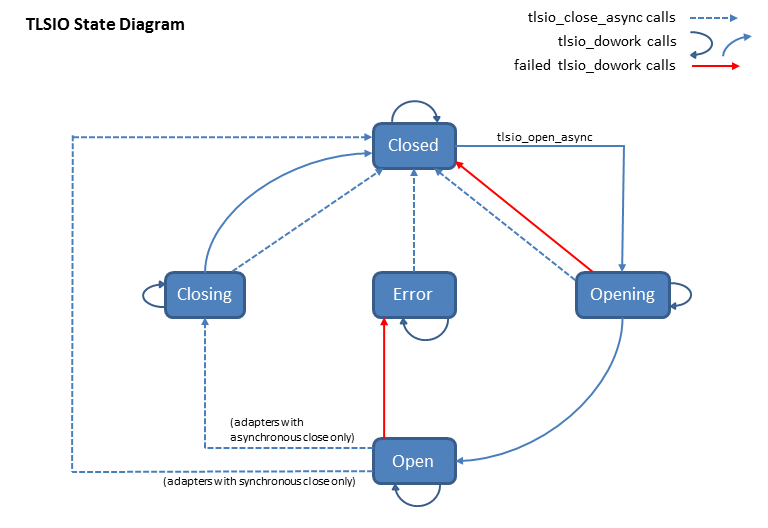
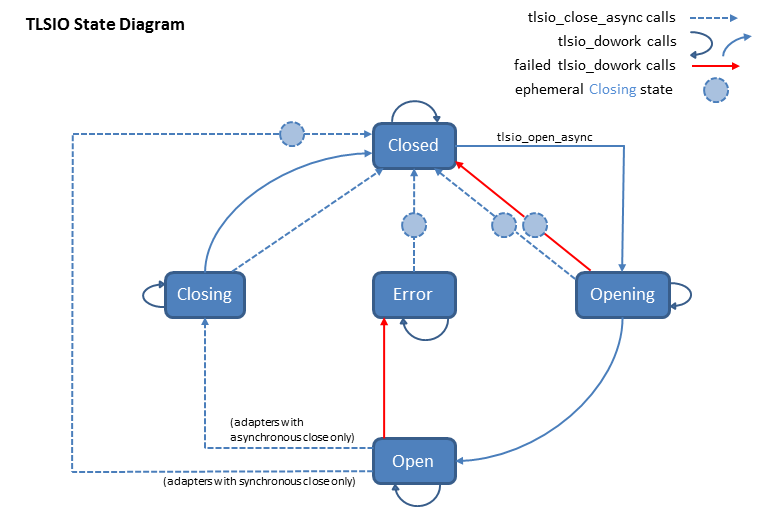
All the doc stuff ACR about state machine

diff --git a/devdoc/tlsio.md b/devdoc/tlsio.md
@@ -82,14 +82,17 @@ int port;
 ## External State
 The external state of the tlsio adapter is determined by which of the adapter's interface functions have been called and which callbacks have been performed. The adapter's internal state should map cleanly to its external state, but the mapping is not necessarily 1:1. The external states are defined as follows:
 
-* TLSIO_STATE_EXT_CLOSED means either that the module is newly constructed by `tlsio_create`, that the `tlsio_close_async` complete callback has been received, or that the `on_tlsio_open_complete` callback has returned with `IO_OPEN_ERROR` or `IO_OPEN_CANCELLED`.
+* TLSIO_STATE_EXT_CLOSED means either that the module is newly constructed by `tlsio_create`, that the `tlsio_close_async` complete callback has been received, or that the `on_tlsio_open_complete` callback has returned with `IO_OPEN_ERROR`.
 * TLSIO_STATE_EXT_OPENING means that the `tlsio_open_async` call has completed successfully but the `on_tlsio_open_complete` callback has not been performed.
 * TLSIO_STATE_EXT_OPEN means that the `on_tlsio_open_complete` callback has returned with `IO_OPEN_OK`.
-* TLSIO_STATE_EXT_CLOSING means that the `tlsio_close_async` call has completed successfully but the `on_tlsio_close_complete` callback has not been performed.
-* TLSIO_STATE_EXT_ERROR means that `on_io_error` has been called from `tlsio_dowork`
+* TLSIO_STATE_EXT_CLOSING means that either the `tlsio_close_async` call has completed successfully but the `on_tlsio_close_complete` callback has not yet been performed, or that  the `on_tlsio_open_complete` callback has returned with `IO_OPEN_CANCELLED`.
+* TLSIO_STATE_EXT_ERROR means that `on_io_error` has been called from `tlsio_dowork`.
 
 ## State Transitions
 This list shows the effect of the calls as a function of state with happy internal functionality. Unhappy functionality is not shown. The `tlsio_setoption` and `tlsio_getoptions` calls are not shown because they have no effect on state and are always allowed. Calls to `tlsio_send_async` also do not affect state, and are allowed only during TLSIO_STATE_EXT_OPEN.
+
+All transitions into TLSIO_STATE_EXT_CLOSED are understood to pass through TLSIO_STATE_EXT_CLOSING.
+
 
 <table>
   <tr>From state <b>TLSIO_STATE_EXT_CLOSED</b></tr>
@@ -119,7 +122,7 @@ This list shows the effect of the calls as a function of state with happy intern
   </tr>
   <tr>
     <td>tlsio_open_async</td>
-    <td>fail, log error, remain in TLSIO_STATE_EXT_OPENING (see "Usage error policy" below)</td>
+    <td>fail, log error, remain in TLSIO_STATE_EXT_OPENING (usage error)</td>
   </tr>
   <tr>
     <td>tlsio_close_async</td>
@@ -139,7 +142,7 @@ This list shows the effect of the calls as a function of state with happy intern
   </tr>
   <tr>
     <td>tlsio_open_async</td>
-    <td>fail, log error, remain in TLSIO_STATE_EXT_OPEN (see "Usage error policy" below)</td>
+    <td>fail, log error, remain in TLSIO_STATE_EXT_OPEN (usage error)</td>
   </tr>
   <tr>
     <td>tlsio_close_async</td>
@@ -159,7 +162,7 @@ This list shows the effect of the calls as a function of state with happy intern
   </tr>
   <tr>
     <td>tlsio_open_async</td>
-    <td>fail, log error, remain in TLSIO_STATE_EXT_CLOSING (see "Usage error policy" below)</td>
+    <td>fail, log error, remain in TLSIO_STATE_EXT_CLOSING (usage error)</td>
   </tr>
   <tr>
     <td>tlsio_close_async</td>
@@ -179,7 +182,7 @@ This list shows the effect of the calls as a function of state with happy intern
   </tr>
   <tr>
     <td>tlsio_open_async</td>
-    <td>fail, log error, remain in TLSIO_STATE_EXT_ERROR (see "Usage error policy" below)</td>
+    <td>fail, log error, remain in TLSIO_STATE_EXT_ERROR (usage error)</td>
   </tr>
   <tr>
     <td>tlsio_close_async</td>
@@ -192,11 +195,6 @@ This list shows the effect of the calls as a function of state with happy intern
 </table>
 
 ![State transition diagram](img/tlsio_state_diagram.png)
-
-**Marcos**: I was trying to declutter the diagram, and can't decide which version is better (roy)
-
-
-![State transition diagram](img/tlsio_state_diagram2.png)
 
 ## Definitions 
 
@@ -321,6 +319,8 @@ int tlsio_close_async(CONCRETE_IO_HANDLE tlsio_handle,
 
 **SRS_TLSIO_30_053: [** If the adapter is in any state other than TLSIO_STATE_EXT_OPEN or TLSIO_STATE_EXT_ERROR then `tlsio_close_async` shall log that `tlsio_close_async` has been called and then continue normally. **]**
 
+**SRS_TLSIO_30_052: [** On success, if the adapter is in TLSIO_STATE_EXT_OPENING, it shall call `on_io_open_complete` with the `on_io_open_complete_context` supplied in `tlsio_open_async` and `IO_OPEN_CANCELLED`. This callback shall be made before changing the internal state of the adapter. **]**
+
 **SRS_TLSIO_30_056: [** On success the adapter shall [enter TLSIO_STATE_EX_CLOSING](#enter-TLSIO_STATE_EXT_CLOSING "Iterate through any unsent messages in the queue and delete each message after calling its `on_send_complete` with the associated `callback_context` and `IO_SEND_CANCELLED`."). **]**
 
 **SRS_TLSIO_30_051: [** On success, if the underlying TLS does not support asynchronous closing or if the adapter is not in TLSIO_STATE_EXT_OPEN, then the adapter shall [enter TLSIO_STATE_EXT_CLOSED](#enter-TLSIO_STATE_EXT_CLOSED "Forcibly close any existing connections then call the `on_io_close_complete` function and pass the `on_io_close_complete_context` that was supplied in `tlsio_close_async`.") immediately after entering TLSIO_STATE_EX_CLOSING. **]**
@@ -345,7 +345,7 @@ int tlsio_send_async(CONCRETE_IO_HANDLE tlsio_handle, const void* buffer,
 
 **SRS_TLSIO_30_065: [** If the adapter state is not TLSIO_STATE_EXT_OPEN, `tlsio_send_async` shall log an error and return `_FAILURE_`. **]**
 
-**SRS_TLSIO_30_064: [** If the supplied message cannot be enqueued for transmission, `tlsio_send_async` shall return `_FAILURE_`. **]**
+**SRS_TLSIO_30_064: [** If the supplied message cannot be enqueued for transmission, `tlsio_send_async` shall log an error and return `_FAILURE_`. **]**
 
 **SRS_TLSIO_30_066: [** On failure, `on_send_complete` shall not be called. **]**
 
